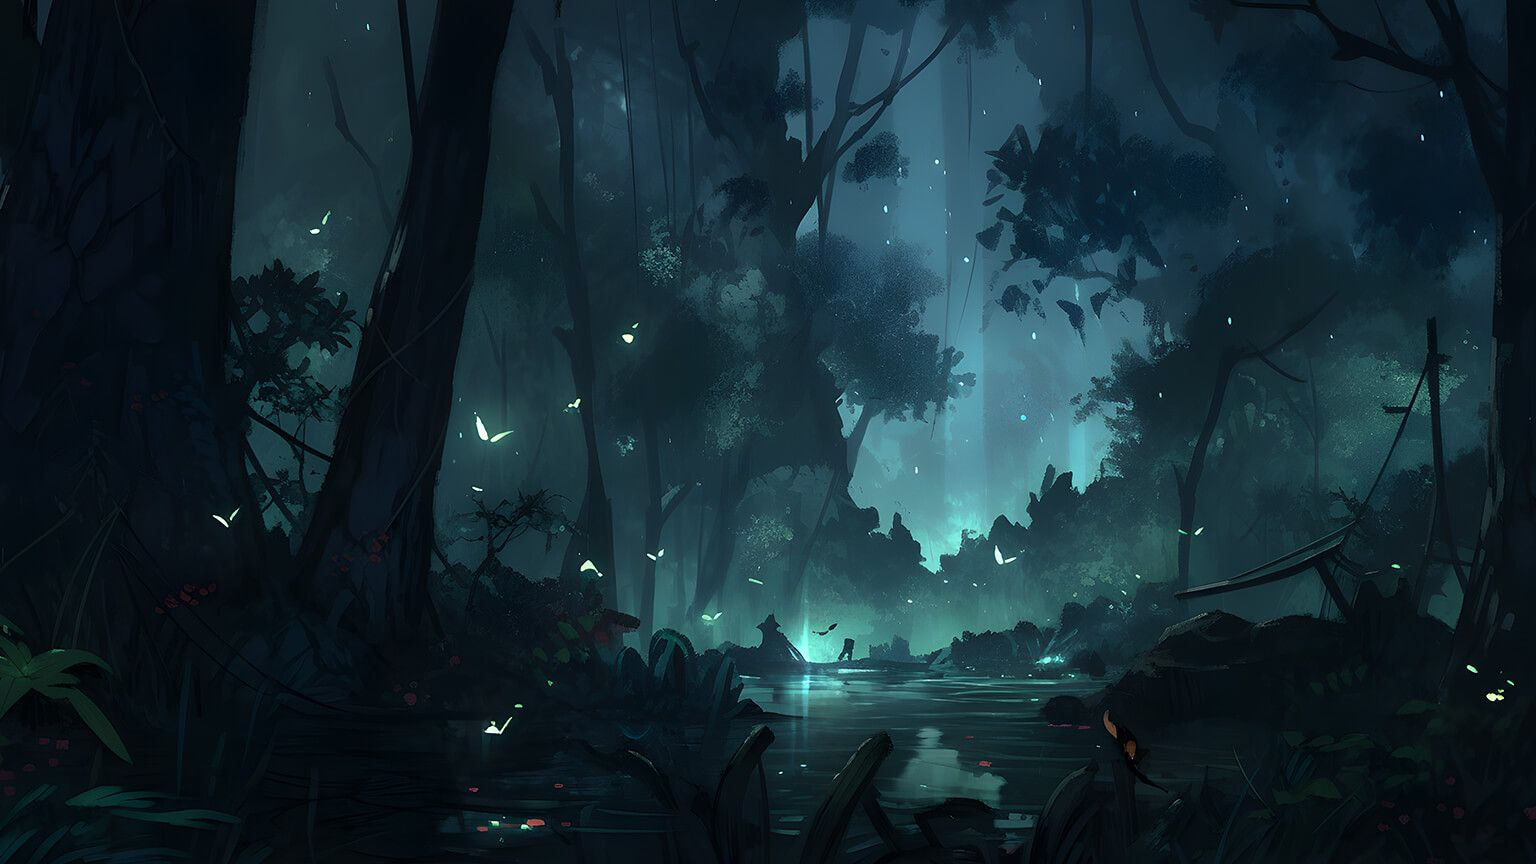
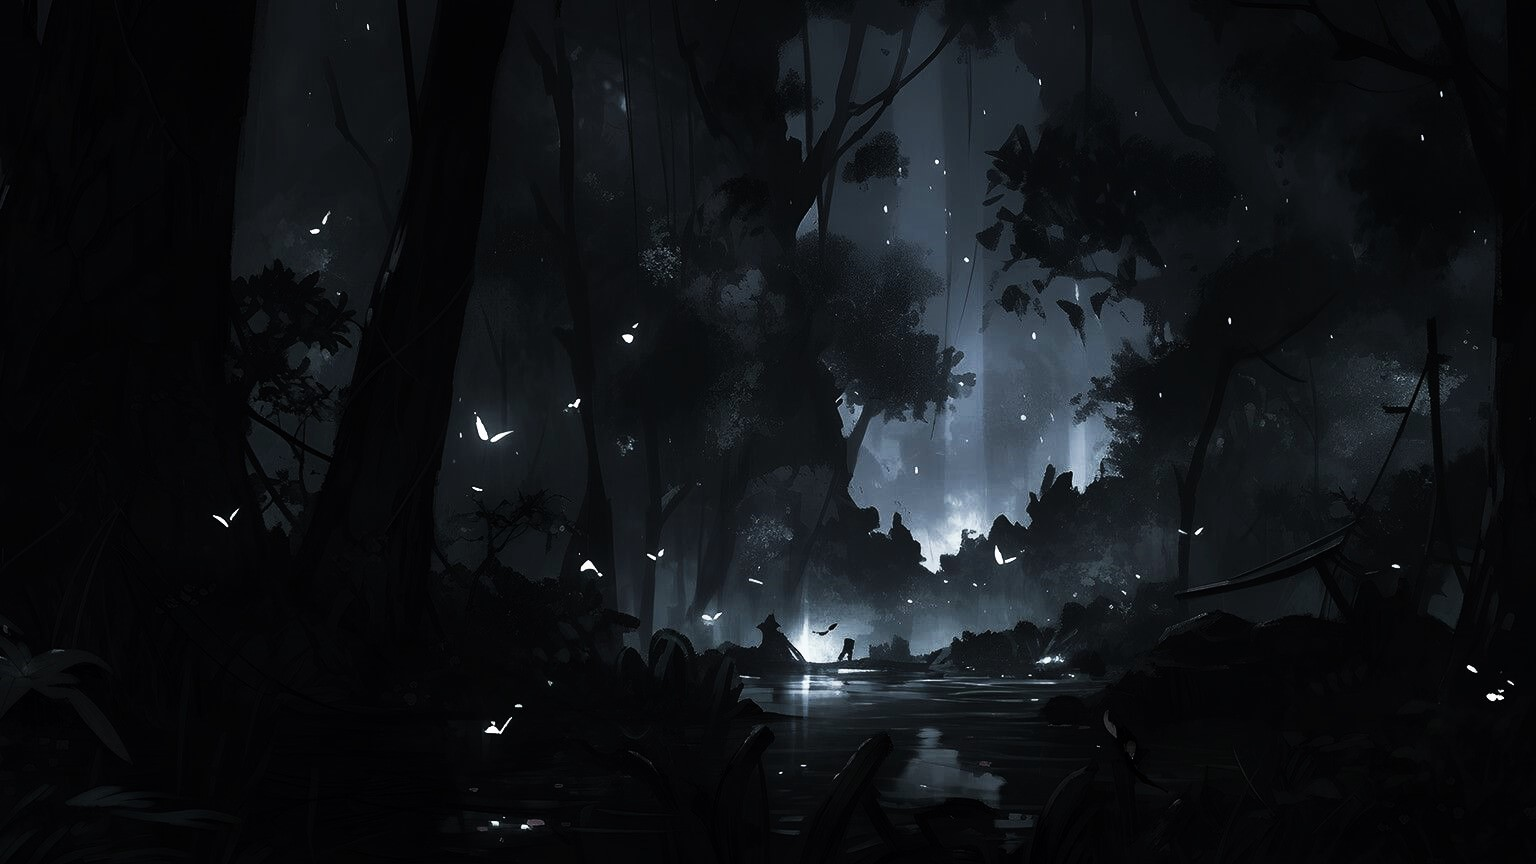
blc bg

diff --git a/webDev85/Homepage.html b/webDev85/Homepage.html
@@ -77,7 +77,7 @@
     }
             
     .card-container {
-      margin-top: 600px;
+      margin-top: 300px;
       position: relative;
       z-index: 1;
       padding: 0 15px;
@@ -114,7 +114,7 @@
 .about-section {
     color: rgb(202, 197, 197);
     text-align: justify;
-    margin-top: 600px; /*space above*/
+    margin-top: 400px; /*space above*/
     padding: 80px 15px;
     margin-bottom: 600px;
     position: relative;
@@ -270,13 +270,13 @@
             opacity: 1;
         }
         .instagram:hover i {
-            color: #e1306c !important;
+            color: #e1306c 
         }
         .twitter:hover i {
-            color: #1da1f2 !important;
+            color: #1da1f2
         }
         .facebook:hover i {
-            color: #1877f2 !important;
+            color: #084ca3 
         }
         .copyright {
             text-align: center;
